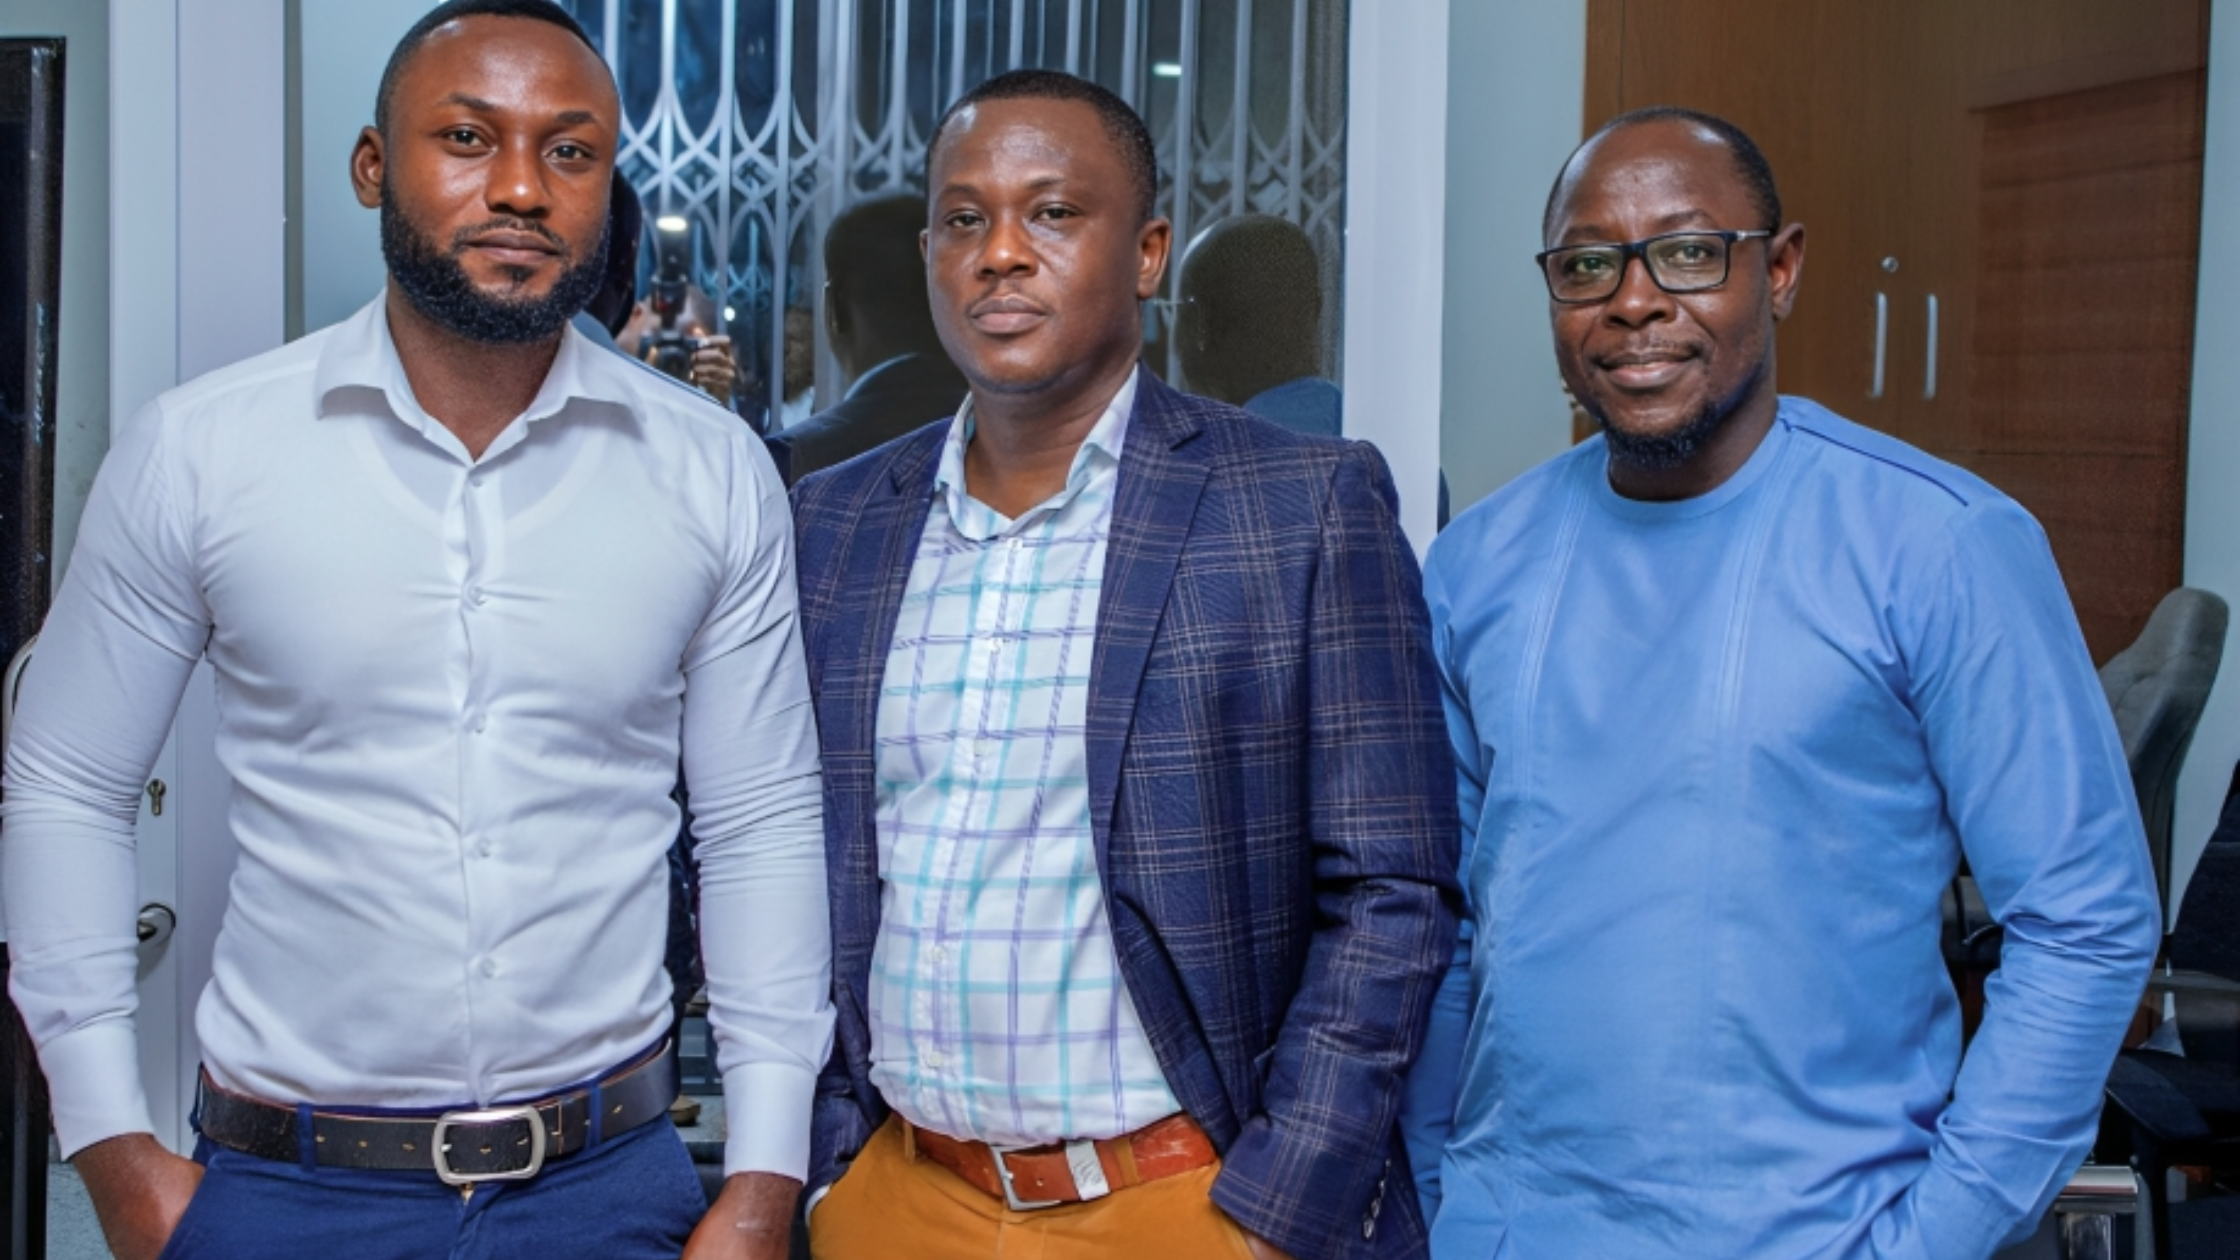
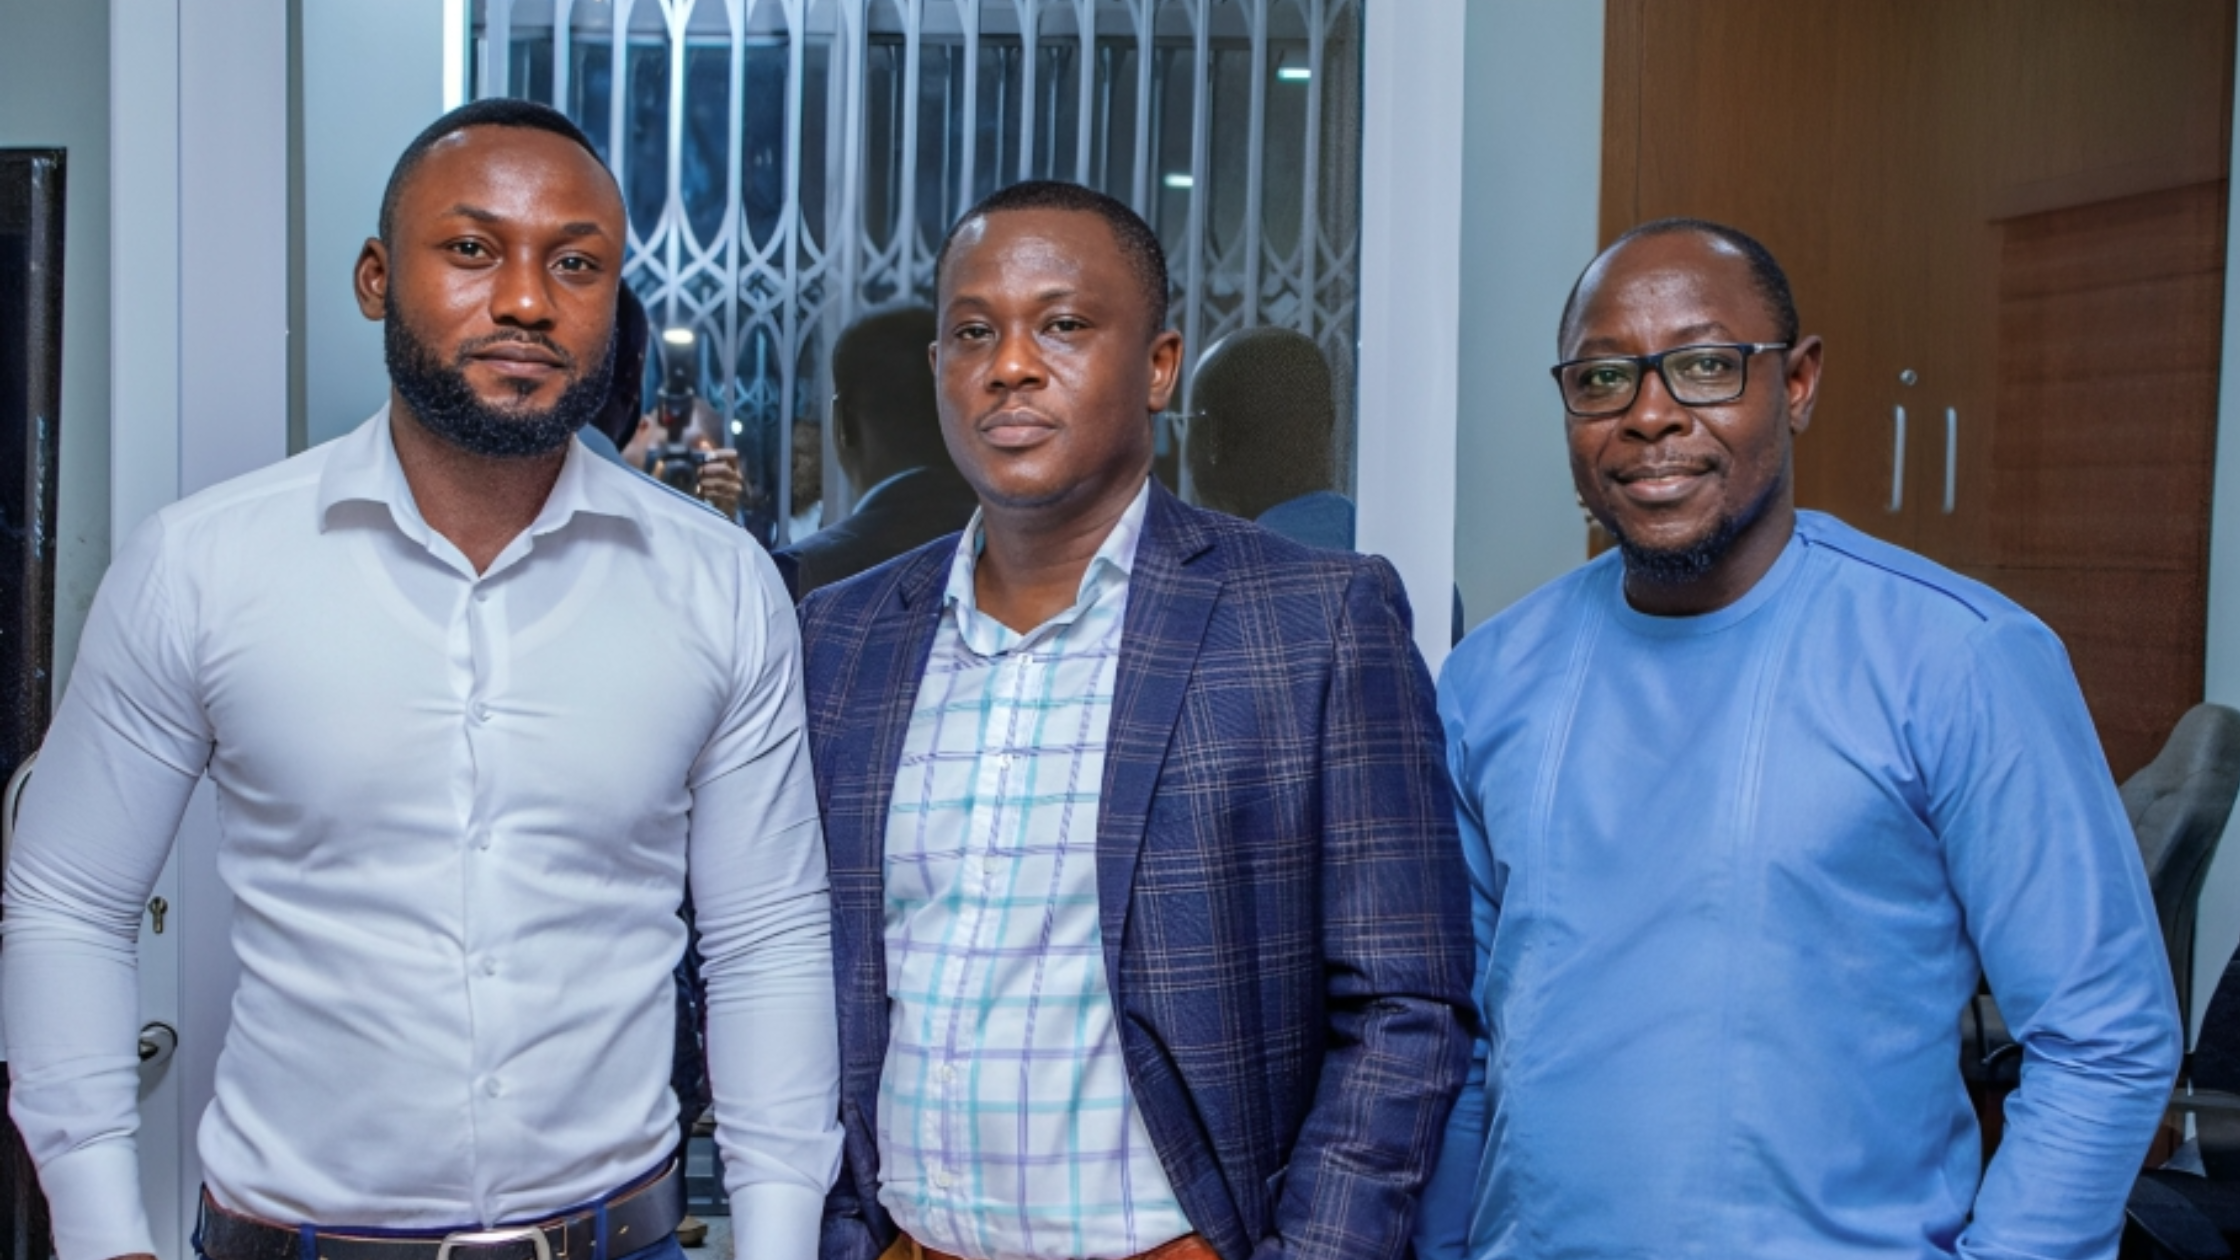
feat: add production config and server setup
- Add .env.production with production API URL
- Update next.config.js with production hostname
- Create server.js for production deployment
- Adjust image object position in home slider

diff --git a/server.js b/server.js
@@ -1,0 +1,19 @@
+/* eslint-disable @typescript-eslint/no-require-imports */
+const { createServer } = require("http");
+const next = require("next");
+const { parse } = require("url");
+
+const port = process.env.PORT || 3000;
+const dev = process.env.NODE_ENV !== "production";
+const app = next({ dev });
+const handle = app.getRequestHandler();
+
+app.prepare().then(() => {
+  createServer((req, res) => {
+    const parsedUrl = parse(req.url, true);
+    handle(req, res, parsedUrl);
+  }).listen(port, (err) => {
+    if (err) throw err;
+    console.log(`> Ready on http://localhost:${port}`);
+  });
+});

diff --git a/components/home-slider.tsx b/components/home-slider.tsx
@@ -161,7 +161,7 @@ export function HomeSlider() {
               src={slide.image}
               alt={slide.title.replace(/\n/g, ' ')}
               fill
-              className="object-cover"
+              className="object-cover object-[center_20%]"
               priority={currentSlide === 0}
               sizes="100vw"
             />
@@ -335,4 +335,4 @@ export function HomeSlider() {
       </button>
     </section>
   )
-} 
+}

diff --git a/next.config.js b/next.config.js
@@ -35,7 +35,7 @@ const nextConfig = {
       },
       {
         protocol: 'https',
-        hostname: 'localhost',
+        hostname: 'standardpensions.com',
         pathname: '/storage/**',
       },
     ],
